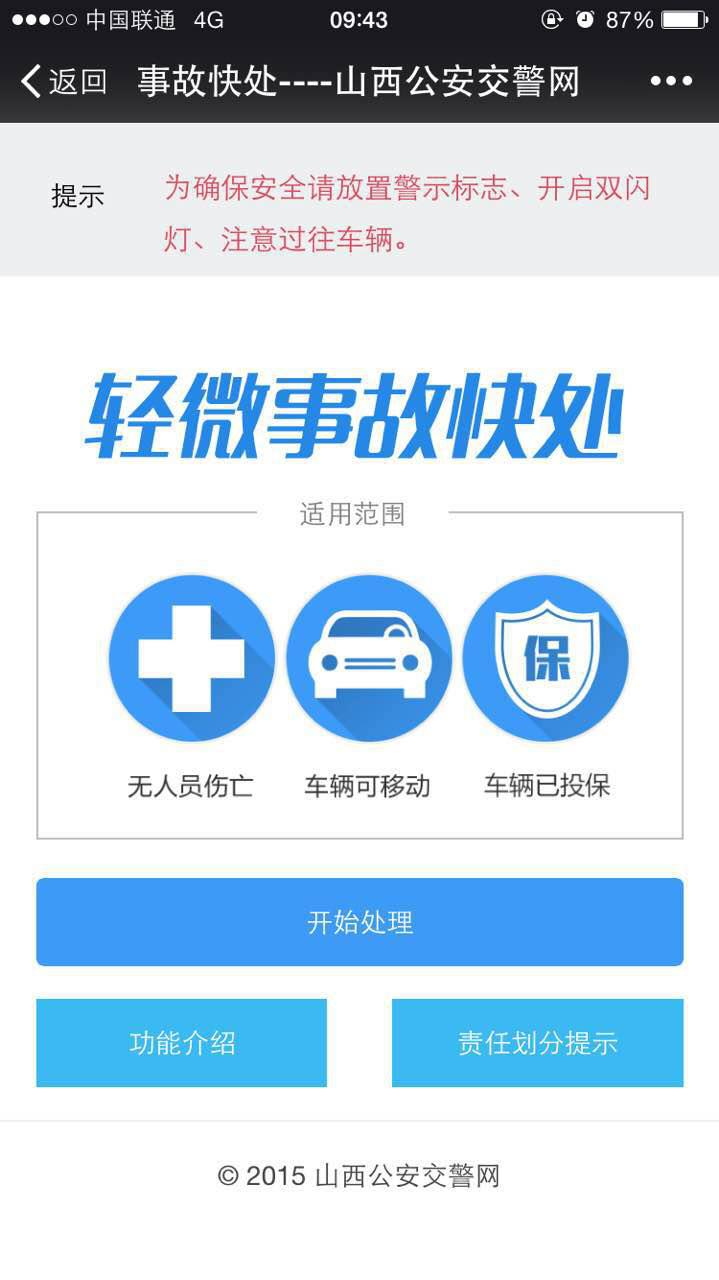
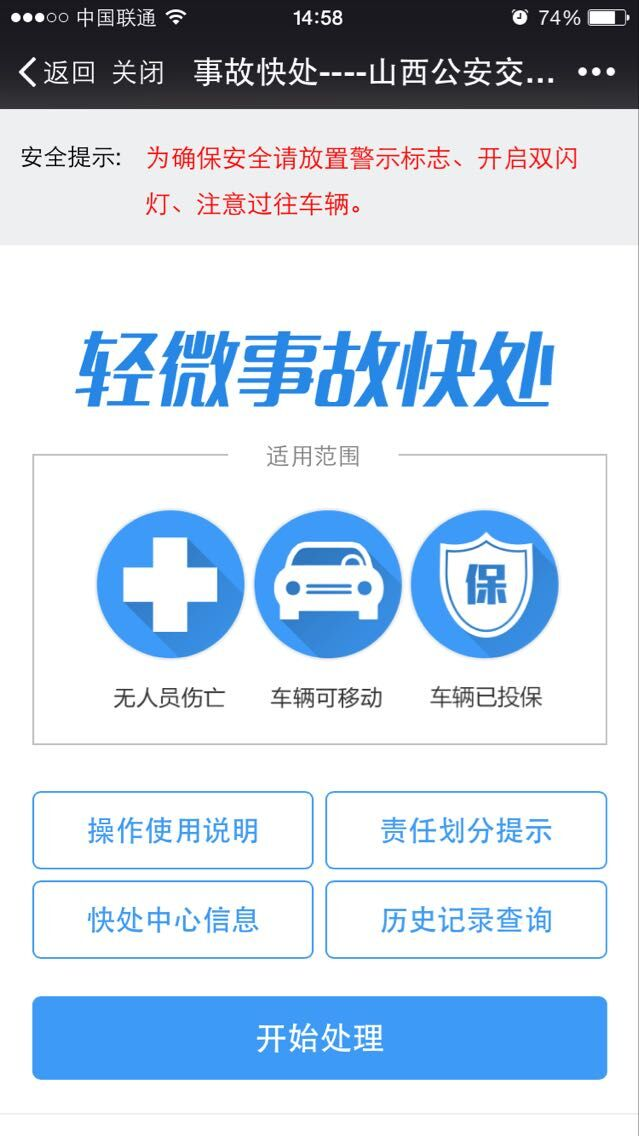
update

diff --git a/app/views/start.html b/app/views/start.html
@@ -11,10 +11,10 @@
     </div>
     <div class="button-groups">
       <div class="button-sub-groups">
-        <button class="btn btn-doc" ng-click="goHash('/doc')">功能介绍</button>
-        <button class="btn btn-info" ng-click="showModal3()">快处信息</button>
-        <button class="btn btn-doc" ng-click="showModal2()">责任划分</button>
-        <button class="btn btn-info" ng-click="goHash('/list')">查询结果</button>
+        <button class="btn btn-doc" ng-click="goHash('/doc')">操作使用说明</button>
+        <button class="btn btn-info" ng-click="showModal2()">责任划分提示</button>
+        <button class="btn btn-doc" ng-click="showModal3()">快处中心信息</button>
+        <button class="btn btn-info" ng-click="goHash('/list')">历史纪录查询</button>
       </div>
       <button class="btn btn-primary btn-go" ng-click="go()">开始处理</button>
     </div>

diff --git a/app/statics/js/controllers/list.js b/app/statics/js/controllers/list.js
@@ -1,5 +1,5 @@
 angular.module('ngFancy')
-  .controller('ListCtrl', ['$scope', '$localStorage', '$location', function($scope, $localStorage, $location) {
+  .controller('ListCtrl', ['$scope', '$localStorage', '$location', 'API', function($scope, $localStorage, $location, API) {
     window.document.title = '事故列表';
 
     $scope.events = _.sortBy(_.values($localStorage.events), function(v) {
@@ -15,7 +15,13 @@ angular.module('ngFancy')
     };
 
     $scope.search = function () {
-      var eventID = $.trim($('input[name=eventID]').val());
-      goDetail(eventID);
+      var data = $.trim($('input[name=eventID]').val());
+      API.searchEvent(data).then(function(d){
+        if(d.r == 1){
+          $scope.events = d.msg.event;
+        }else{
+          $scope.events = [];
+        }
+      });
     };
   }]);

diff --git a/app/views/list.html b/app/views/list.html
@@ -1,9 +1,9 @@
 <div class="list-wrapper">
   <div class="list-search-wrapper">
     <p class="meta">以下是您的轻微事故历史纪录</p>
-    <p class="meta">请输入对应的事故编码进行查询</p>
+    <p class="meta">请输入车牌号码或手机号码进行查询</p>
     <div class="search">
-      <span class="search"><input type="text" name="eventID" placeholder="如SG150204202CB962" /></span>
+      <span class="search"><input type="text" name="eventID" placeholder="如AT3242或15843241132" /></span>
       <span class="search-btn"><button class="btn btn-search" data-ng-click="search()">查询</button></span>
     </div>
   </div>

diff --git a/app/statics/js/services/api.js b/app/statics/js/services/api.js
@@ -40,6 +40,12 @@ angular.module('ngFancy').service('API', ['$http', '$q', function($http, $q) {
     });
   };
 
+  this.searchEvent = function(data) {
+    return post('http://www.sxgajj.gov.cn/fancy/index.php?g=Api&m=wechat&a=searchEvent', {
+      data: data
+    });
+  };
+
   this.check = function(tel, cphm, sbdh) {
     return post('/fancy/index.php?g=Api&m=wechat&a=check_car', {
       tel: tel,
